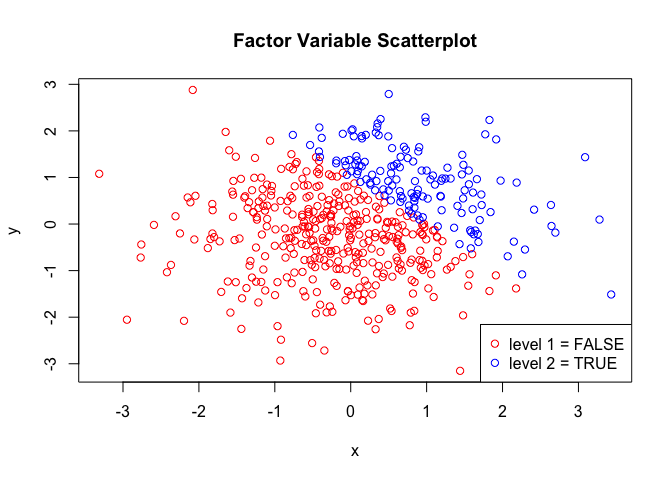
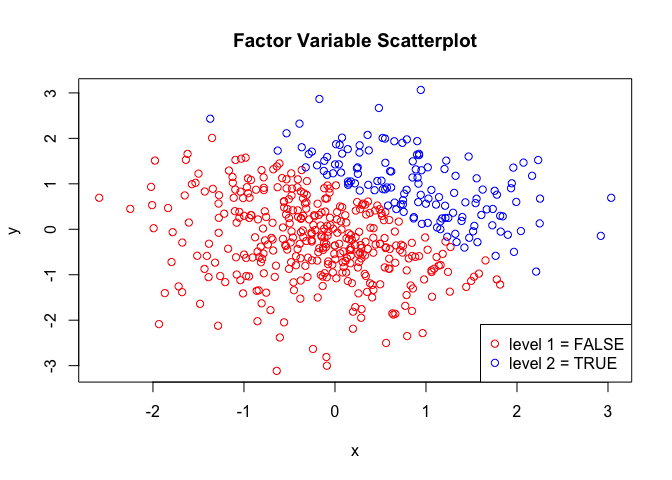
save the first plot and indentation

diff --git a/p8105_hw1_dz2426.md b/p8105_hw1_dz2426.md
@@ -48,9 +48,9 @@ mean_char_vec = mean(pull(df_1, char_vec))
 mean_fac_vec = mean(pull(df_1, fac_vec))
 ```
 
-Comment 1: <br /> The mean of the random sample is -0.17. <br /> The
-mean of the logic vector is 0.38. <br /> The mean of the character
-vector is NA. <br /> The mean of the factor vector is NA. <br />
+Comment 1: <br /> The mean of the random sample is 0.08. <br /> The mean
+of the logic vector is 0.62. <br /> The mean of the character vector is
+NA. <br /> The mean of the factor vector is NA. <br />
 
 ``` r
 #Convert the logical, character, and factor vector to numeric variable
@@ -77,15 +77,12 @@ Here is the second code
 as.numeric(pull(df_1, log_vec)) * pull(df_1, random_samp)
 ```
 
-    ## [1] 0.0000000 0.0000000 0.0000000 1.3365848 0.0000000 0.8262221 0.0000000
-    ## [8] 1.0975479
+    ## [1] 0.6499774 0.5988491 0.0000000 0.6801720 0.0000000 0.9547801 0.0000000
+    ## [8] 0.5349201
 
 ``` r
 as.factor(pull(df_1, log_vec)) * pull(df_1, random_samp)
 ```
-
-    ## Warning in Ops.factor(as.factor(pull(df_1, log_vec)), pull(df_1,
-    ## random_samp)): '*' not meaningful for factors
 
     ## [1] NA NA NA NA NA NA NA NA
 
@@ -93,8 +90,8 @@ as.factor(pull(df_1, log_vec)) * pull(df_1, random_samp)
 as.numeric(as.factor(pull(df_1, log_vec))) * pull(df_1, random_samp)
 ```
 
-    ## [1] -1.2872287 -0.3682401 -0.5010797  2.6731696 -0.8200557  1.6524441
-    ## [7] -1.6467774  2.1950958
+    ## [1]  1.2999548  1.1976983 -1.1069755  1.3603440 -0.7031088  1.9095602
+    ## [7] -0.9657425  1.0698403
 
 # Problem 2
 
@@ -122,8 +119,8 @@ prop_case = mean(pull(df_2, log_vec_2))
 ```
 
 Description of data frame: <br /> The size of the data set is 500 and 5.
-<br /> The mean, median and standard deviation of x are 0.04, 0.05 and
-1.03, respectively. <br /> The proportion of cases for which x+y\>1 is
+<br /> The mean, median and standard deviation of x are 0.08, 0.06 and
+0.92, respectively. <br /> The proportion of cases for which x+y\>1 is
 0.28.
 
 ## Section 2
@@ -132,8 +129,8 @@ Below are three code chunks for the three yx scatterplots including
 logical, numerical and factor variables, respectively.
 
 ``` r
-with(df_2, plot(x, y, xlab = "x", ylab = "y", 
-                main = "Logical Variable Scatterplot", type = "n"))
+plot_one = with(df_2, plot(x, y, xlab = "x", ylab = "y", 
+                           main = "Logical Variable Scatterplot", type = "n"))
 with(subset(df_2, log_vec_2 == 'FALSE'), points(x, y, col = 'red'))        
 with(subset(df_2, log_vec_2 == 'TRUE'), points(x, y, col = 'blue'))
 legend("bottomright", pch = 1, col = c("red","blue"), 
@@ -143,8 +140,8 @@ legend("bottomright", pch = 1, col = c("red","blue"),
 ![](p8105_hw1_dz2426_files/figure-gfm/yx_Logical_scatterplot-1.png)<!-- -->
 
 ``` r
-with(df_2, plot(x, y, xlab = "x", ylab = "y", 
-                main = "Numeric Variable Scatterplot", type = "n"))
+plot_two = with(df_2, plot(x, y, xlab = "x", ylab = "y", 
+                           main = "Numeric Variable Scatterplot", type = "n"))
 with(subset(df_2, num_vec_2 == '0'), points(x, y, col = 'red'))        
 with(subset(df_2, num_vec_2 == '1'), points(x, y, col = 'blue'))
 legend("bottomright", pch = 1, col = c("red","blue"), 
@@ -154,8 +151,8 @@ legend("bottomright", pch = 1, col = c("red","blue"),
 ![](p8105_hw1_dz2426_files/figure-gfm/yx_numeric_scatterplot-1.png)<!-- -->
 
 ``` r
-with(df_2, plot(x, y, xlab = "x", ylab = "y", 
-                main = "Factor Variable Scatterplot", type = "n"))
+plot_three = with(df_2, plot(x, y, xlab = "x", ylab = "y", 
+                             main = "Factor Variable Scatterplot", type = "n"))
 with(subset(df_2, fac_vec_2 == 'FALSE'), points(x, y, col = 'red'))        
 with(subset(df_2, fac_vec_2 == 'TRUE'), points(x, y, col = 'blue'))
 legend("bottomright", pch = 1, col = c("red","blue"), 
@@ -168,3 +165,9 @@ which x+y\>1, these three scatterplots clearly show that there is a much
 higher chance to obtain x+y\<1 (red dots). On each plot, it also shows
 that with higher x and y values (blue dots), it is more likely to get a
 ‘TRUE’ result (x+y\>1).
+
+``` r
+ggsave("plot_one.pdf",plot_one)
+```
+
+    ## Saving 7 x 5 in image
